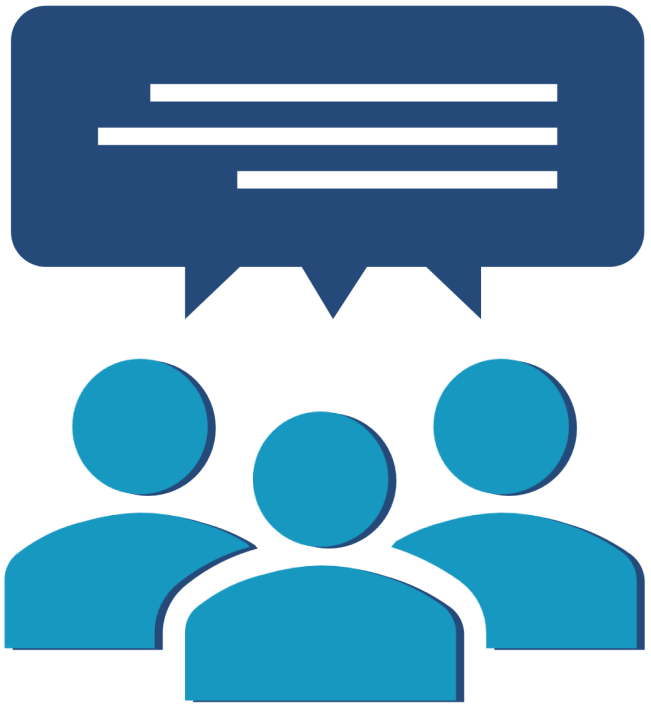
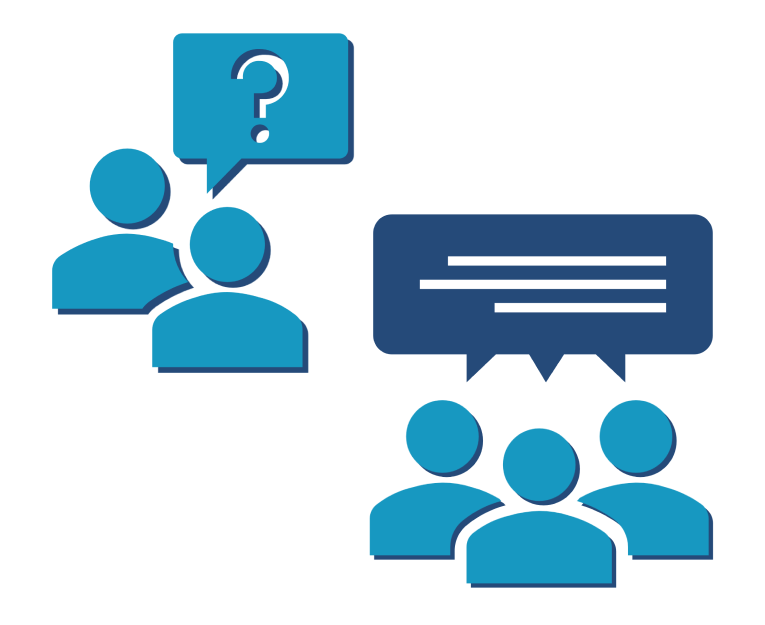
added conv bubble with extra people

diff --git a/th/css/style2.css b/th/css/style2.css
@@ -1939,9 +1939,7 @@ section#broker-banner {
 	font-size: 28px;
 }
 
-#hp-banner img {
-	padding-right: 60px;
-}
+
 
 section#hp-banner {
 	background: #ffffff url('../images/bg-swirl-graphic-blue.svg') no-repeat center center / cover;
